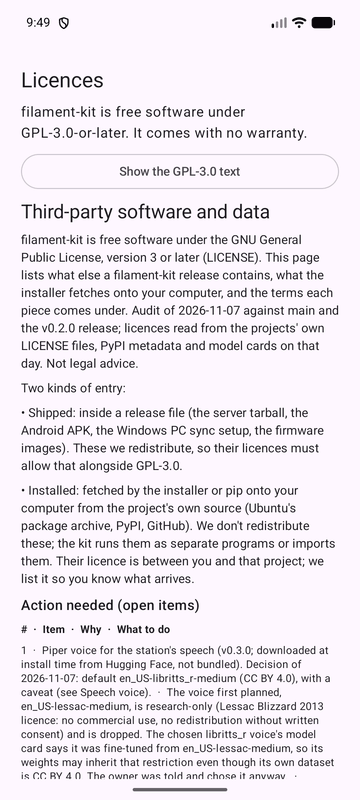
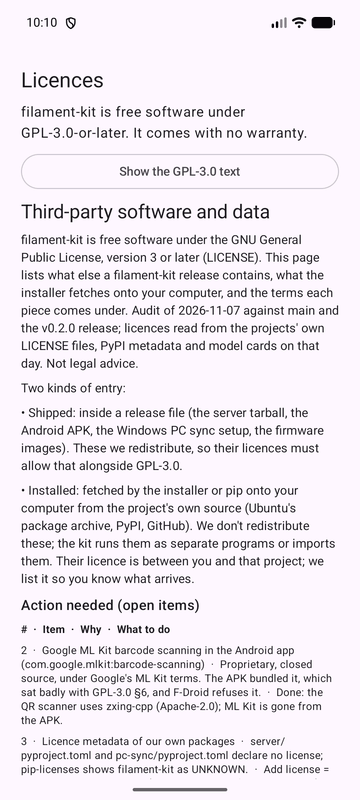
docs: retaken Licences screenshot, renumber the open items

Changed region(s): [[0.0611, 0.7812, 0.9167, 1.0], [0.0611, 0.0, 0.2139, 0.0312]]

diff --git a/THIRD-PARTY.md b/THIRD-PARTY.md
@@ -17,9 +17,9 @@ Two kinds of entry:
 
 | # | Item | Why | What to do |
 |---|---|---|---|
-| 2 | ~~**Google ML Kit barcode scanning** in the Android app (`com.google.mlkit:barcode-scanning`)~~ | Proprietary, closed source, under Google's ML Kit terms. The APK bundled it, which sat badly with GPL-3.0 §6, and F-Droid refuses it. | **Done**: the QR scanner uses zxing-cpp (Apache-2.0); ML Kit is gone from the APK. |
-| 3 | **Licence metadata of our own packages** | `server/pyproject.toml` and `pc-sync/pyproject.toml` declare no `license`; `pip-licenses` shows filament-kit as UNKNOWN. | Add `license = "GPL-3.0-or-later"` to both (and the LICENSE file to the wheel), so installs and tools see it. |
-| 4 | **Notices in the release files** | The APK and the PC sync setup carry third-party code (AndroidX, OkHttp, PyInstaller's bootloader, ...), whose BSD/MIT/Apache terms want their notices kept. | Ship this file in the server tarball and the PC sync setup, and show it (or the Gradle-generated OSS notices) in the app's Settings. **App part done**: the APK carries this file and LICENSE, shown under Settings > Licences. |
+| 1 | ~~**Google ML Kit barcode scanning** in the Android app (`com.google.mlkit:barcode-scanning`)~~ | Proprietary, closed source, under Google's ML Kit terms. The APK bundled it, which sat badly with GPL-3.0 §6, and F-Droid refuses it. | **Done**: the QR scanner uses zxing-cpp (Apache-2.0); ML Kit is gone from the APK. |
+| 2 | **Licence metadata of our own packages** | `server/pyproject.toml` and `pc-sync/pyproject.toml` declare no `license`; `pip-licenses` shows filament-kit as UNKNOWN. | Add `license = "GPL-3.0-or-later"` to both (and the LICENSE file to the wheel), so installs and tools see it. |
+| 3 | **Notices in the release files** | The APK and the PC sync setup carry third-party code (AndroidX, OkHttp, PyInstaller's bootloader, ...), whose BSD/MIT/Apache terms want their notices kept. | Ship this file in the server tarball and the PC sync setup, and show it (or the Gradle-generated OSS notices) in the app's Settings. **App part done**: the APK carries this file and LICENSE, shown under Settings > Licences. |
 
 Everything else below is in order: GPL-3.0-compatible, or only installed and never redistributed.
 

diff --git a/docs/maintainer.md b/docs/maintainer.md
@@ -111,7 +111,7 @@ A hand-built tarball is not signed. Users can install it with `sudo ./install.sh
 ## Third-party licences
 
 [THIRD-PARTY.md](../THIRD-PARTY.md) lists every component a release ships or the installer fetches, with its
-licence, and the open items (the Piper voice, ML Kit, our own licence metadata, notices in the release files).
+licence, and the open items (ML Kit, our own licence metadata, notices in the release files).
 Redo the check when a dependency is added or a pin changes: `pip-licenses` in a venv with
 `filament-kit[station,web,push]`, `android/gradle/libs.versions.toml`, the two `platformio.ini` files and the
 `apt` lists in `modules.py`.
